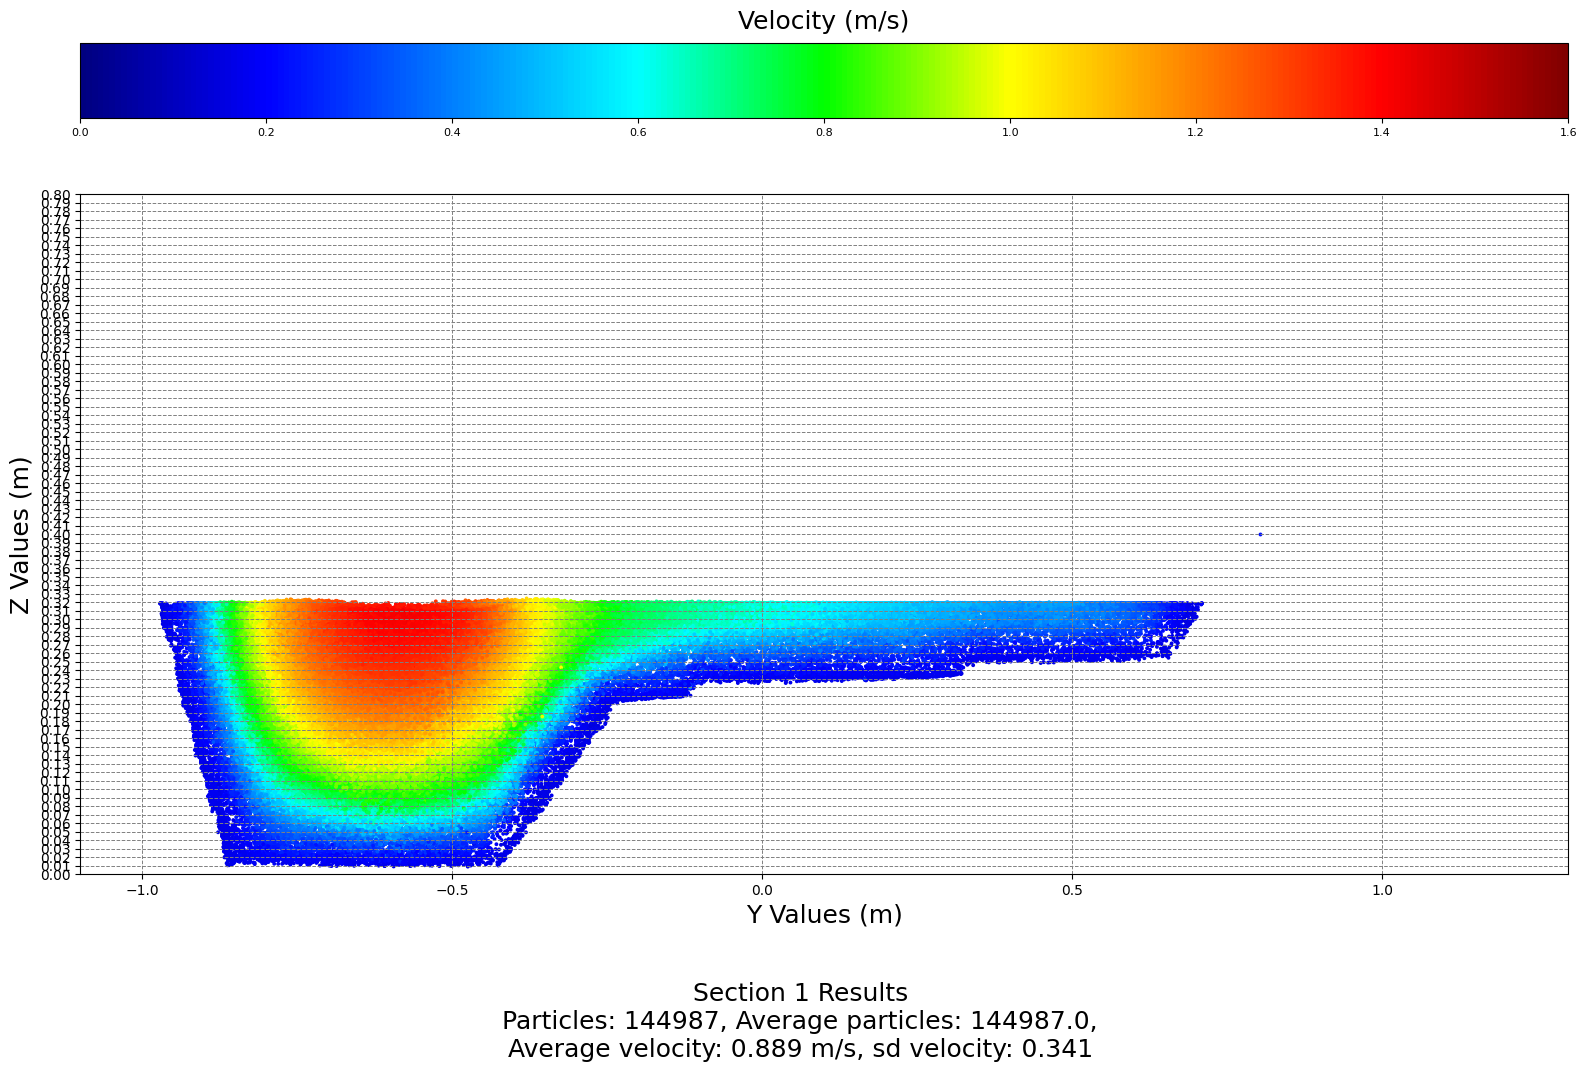
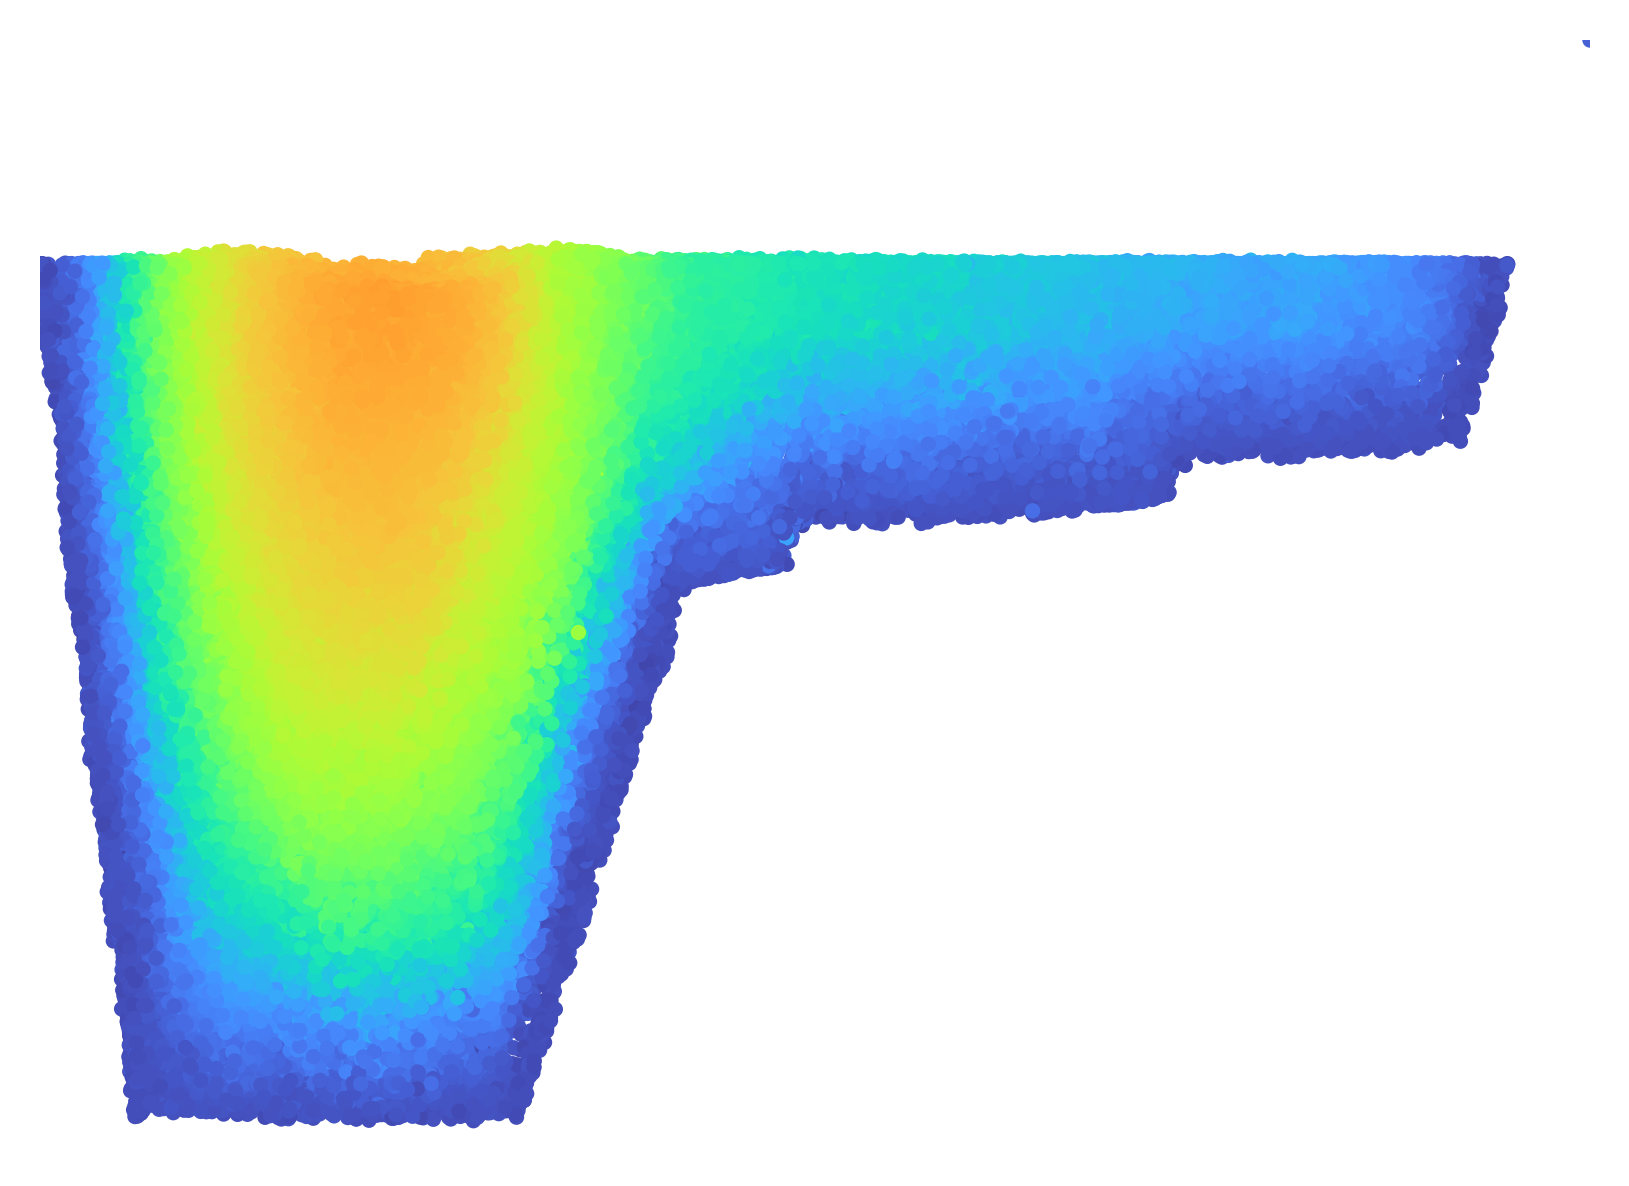
fixed axis dimension scales

diff --git a/plotter.py b/plotter.py
@@ -12,8 +12,8 @@ from mpl_toolkits.axes_grid1.inset_locator import inset_axes
 mpl.rcParams.update({
     "font.family": "Ubuntu",
     "font.weight": "light",
-    "font.size": 10.5,
-    "figure.dpi": 400,
+    "font.size": 10,
+    "figure.dpi": 500,
 })
 
 
@@ -71,7 +71,6 @@ class Plotter:
                 sd_velocity,
                 section_number
             )
-        fig.subplots_adjust(top=0.90)
         self._save(fig, section_number)
 
 
@@ -108,6 +107,7 @@ class Plotter:
         # Axis limits
         ax.set_xlim(0, x.max())
         ax.set_ylim(0, y.max())
+        ax.set_aspect('equal', adjustable='box')  # 1 unit x == 1 unit y
 
         # Grid and tick layout
         ax.grid(True, which="both", linestyle="--", color="grey", linewidth=0.4)
@@ -119,7 +119,7 @@ class Plotter:
         ax.xaxis.set_major_locator(MultipleLocator(x_tick_step))
         ax.xaxis.set_major_formatter(FuncFormatter(every_fifth_x))
         # Y: only every 5th tick labeled (0.00, 0.05, 0.10, ...)
-        y_tick_step = 0.01
+        y_tick_step = 0.05
         def every_fifth(val, _):
             return f"{val:.2f}" if (round(val * 100) % 5 == 0) else ""
         ax.yaxis.set_major_locator(MultipleLocator(y_tick_step))
@@ -129,19 +129,29 @@ class Plotter:
 
     @staticmethod
     def _add_colorbar(fig, ax_scatter):
-        mappable = ax_scatter.collections[0]  # your scatter/stream mappable (norm 0–2)
-
+        mappable = ax_scatter.collections[0]  # uses Normalize(0, 2)
         cb_ax = inset_axes(
             ax_scatter,
-            width="100%", height="4%",  # thin, full-width bar
+            width="100%", height="50%",  # thin, full-width bar
             loc="upper center",
-            bbox_to_anchor=(0, 1.02, 1, 0.05),  # x0,y0,w,h in axes coords
+            bbox_to_anchor=(0, 1.0, 1, 0.2),  # x0,y0,w,h in axes coords
             bbox_transform=ax_scatter.transAxes,
             borderpad=0,
         )
-        cbar = fig.colorbar(ax_scatter.collections[0],
-                            ax=ax_scatter, orientation="horizontal",
-                            location="top", pad=0.05)
+        cbar = fig.colorbar(mappable, cax=cb_ax, orientation="horizontal")
+
+        # show ticks/label only on top
+        cbar.ax.xaxis.set_ticks_position("top")
+        cbar.ax.xaxis.set_label_position("top")
+        cbar.ax.tick_params(which="both", bottom=False, labelbottom=False,
+                            top=True, labeltop=True)
+
+        # optional: control tick values
+        cbar.set_ticks([0.0, 0.5, 1.0, 1.5, 2.0])
+
+        # make room above axes
+        fig.subplots_adjust(top=0.9)
+        cbar.set_label(r"Velocity (m s$^{-1}$)")
 
     @staticmethod
     def _add_title(fig,
